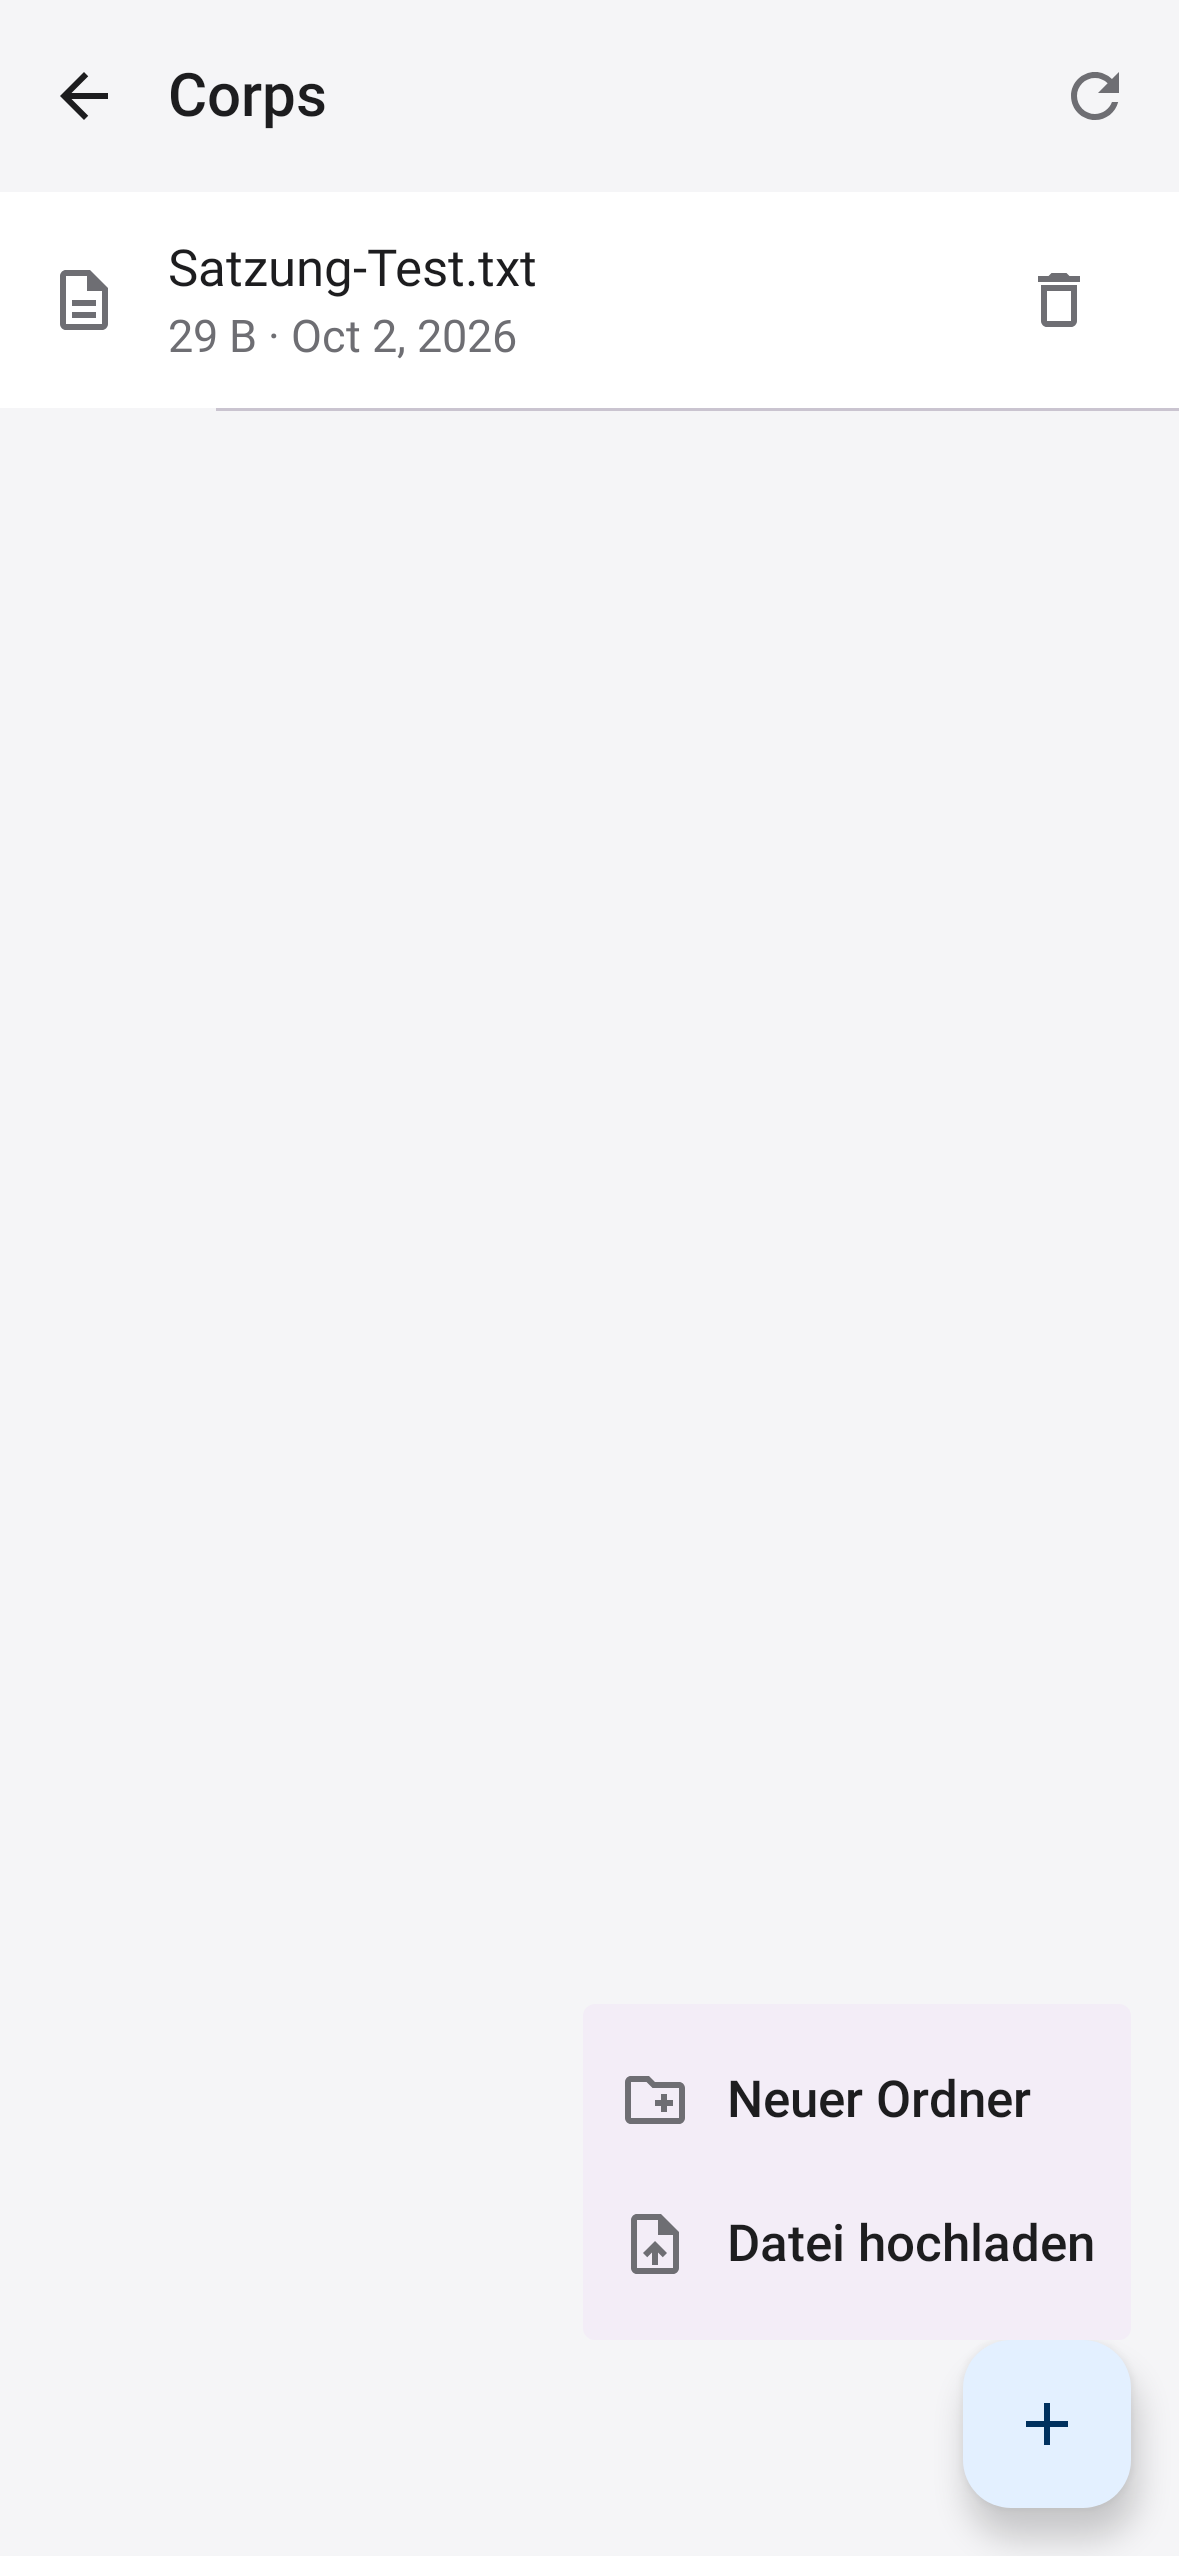
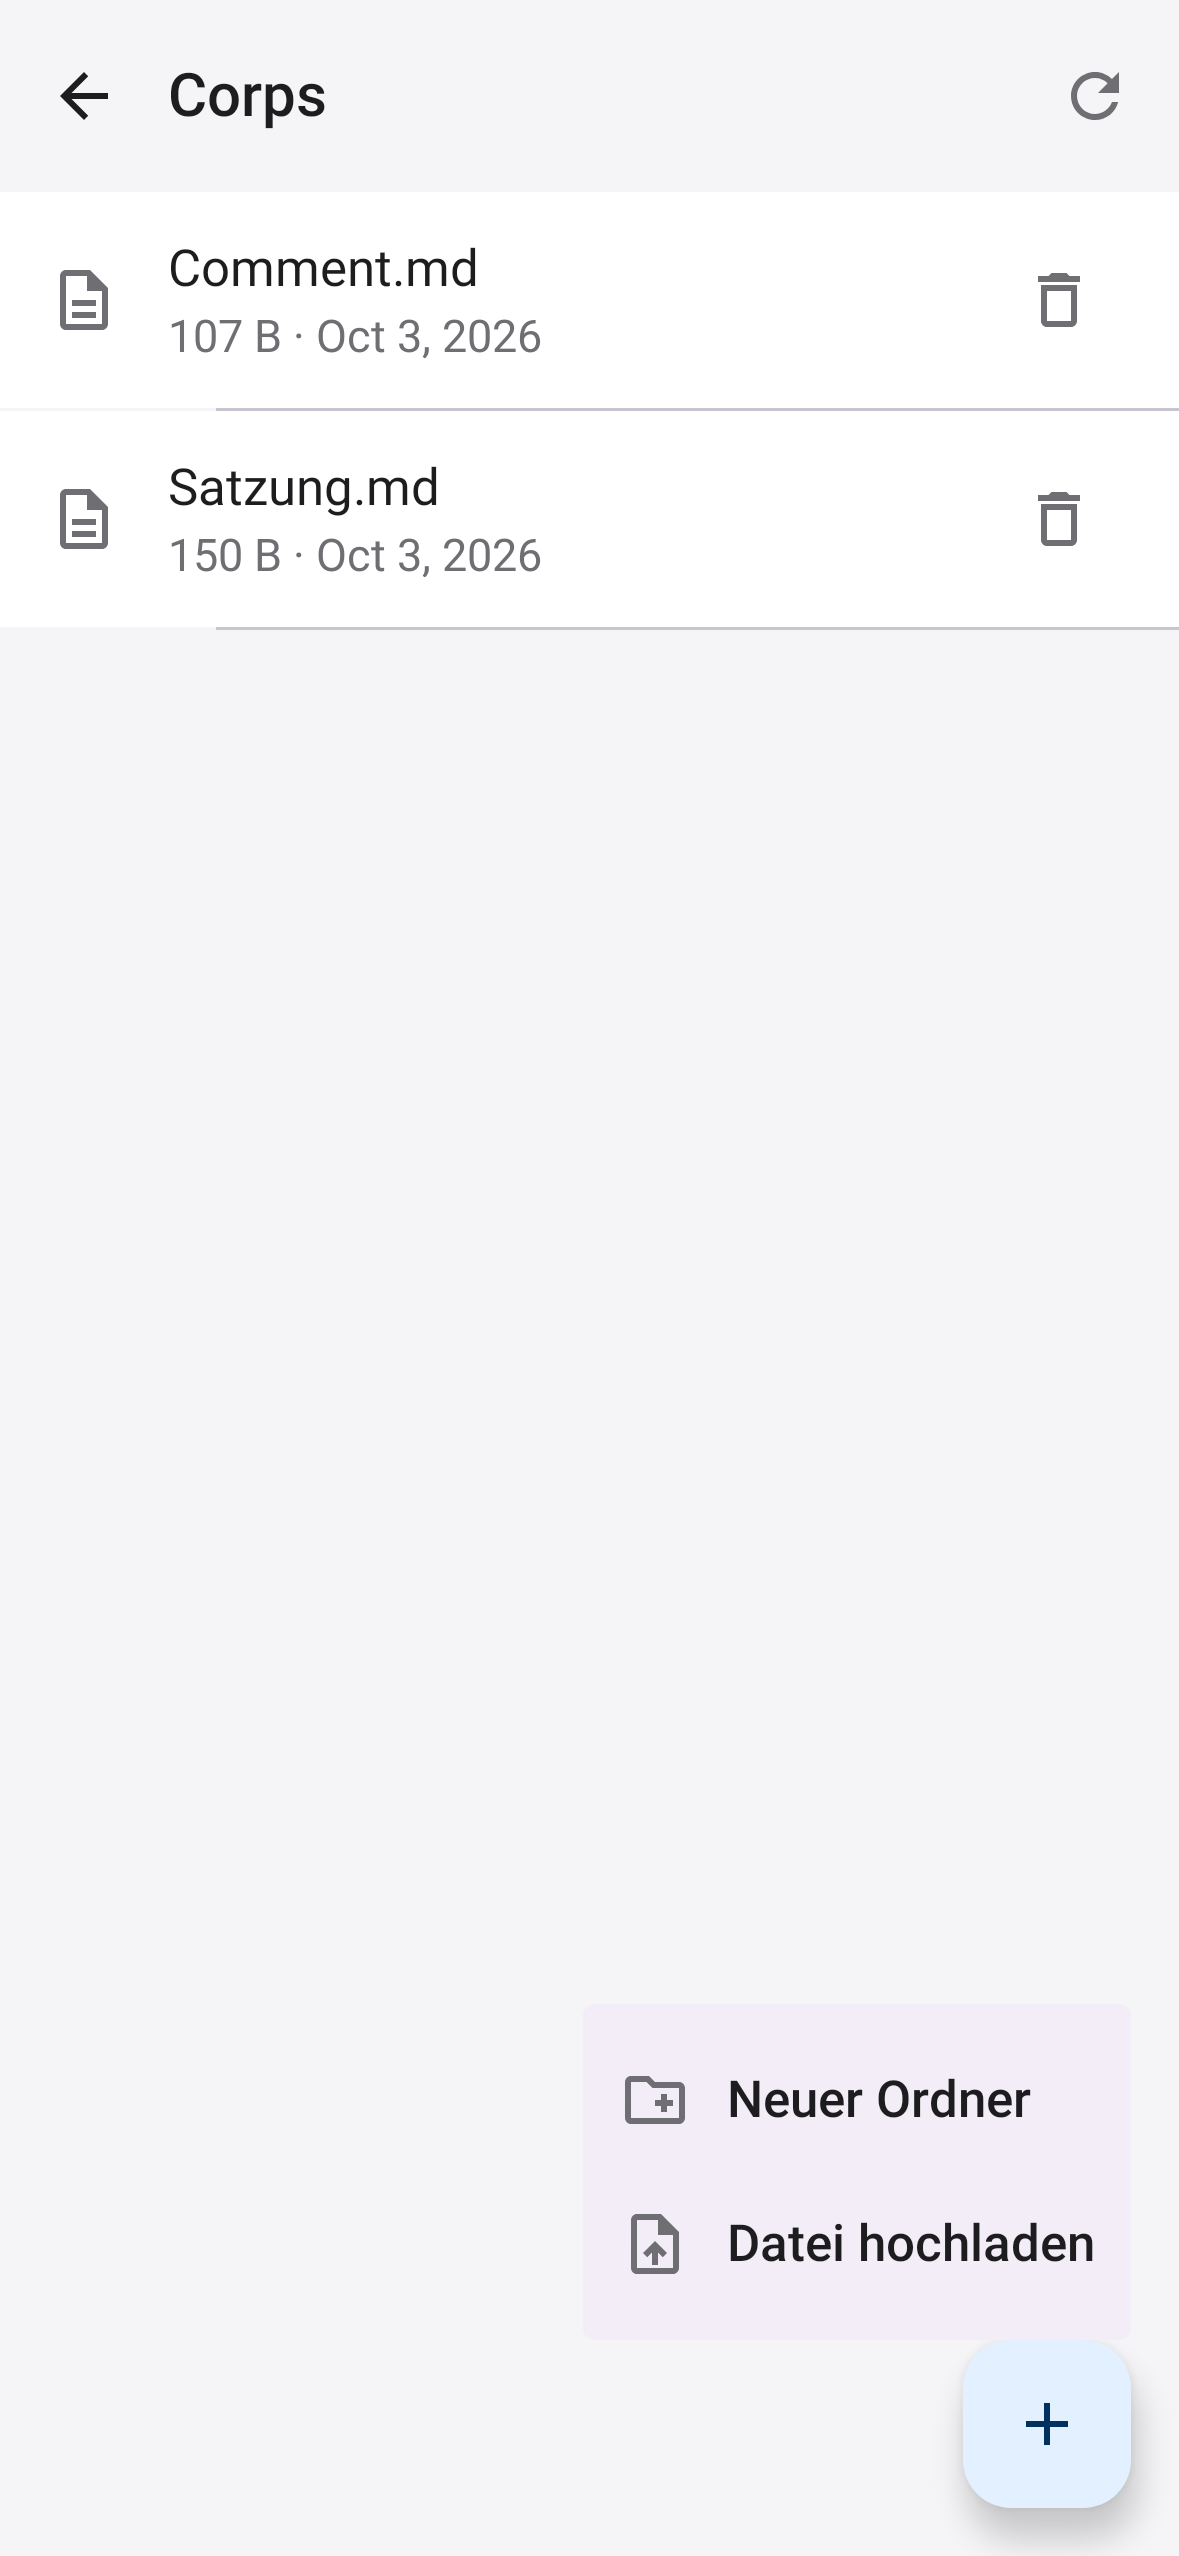
Zwei-Faktor-Pflicht für Chargen, AHV-Vorstand und IT-Admins; Beispieldateien; Tests mit TOTP
- Realm-Rolle zwei-faktor-pflicht über Gruppen, bedingter Anmeldeablauf browser-chattia (TOTP)
- SSO-Test richtet TOTP ein, berechnet Codes und prüft: Ämter gefragt, Aktive ohne Amt nicht
- dev-files.sh legt Beispielordner an; App-Tests nutzen Konto ohne Amt (bursch)
- Doku: Schlüsselrotation und Caches von Nextcloud/WordPress

Claude-Session: https://claude.ai/code/session_013pBdEe3DoC3F33hqVsbrFP

diff --git a/apps/android/src/test/java/com/example/nova/android/CentralLoginTest.kt b/apps/android/src/test/java/com/example/nova/android/CentralLoginTest.kt
@@ -126,7 +126,7 @@ class CentralLoginTest {
         shot("20-anmeldung-chattia-konto")
 
         // Custom Tab: Keycloak-Login, danach öffnet Android die App mit nova://auth?code=…
-        callback.value = browserLogin(nova.auth.centralLoginUrl(), "senior", "Chattia-Test-2026!")
+        callback.value = browserLogin(nova.auth.centralLoginUrl(), "bursch", "Chattia-Test-2026!")
 
         waitForText("Womit kann ich helfen?")
         compose.onNodeWithContentDescription("Menü").performClick()
@@ -136,7 +136,7 @@ class CentralLoginTest {
         waitForText("Corps")
         shot("21-dateien")
         compose.onNodeWithText("Corps").performClick()
-        waitForText("Satzung-Test.txt")
+        waitForText("Satzung.md")
         shot("22-dateien-ordner")
 
         compose.onNodeWithContentDescription("Neuer Ordner").performClick()

diff --git a/docs/plan/zentraler-login.md b/docs/plan/zentraler-login.md
@@ -36,11 +36,11 @@ Gruppen werden **nur in Keycloak** gepflegt. Nextcloud übernimmt sie bei jeder 
 | `aktivitas/fuechse` | Füxe | Gruppe `fuechse` | – | eingeschränkte Gruppenordner |
 | `inaktive` | Inaktive | Gruppe `inaktive` | – | |
 | `alte-herren` | AHV-Mitglieder | Gruppe `alte-herren` | – | |
-| `chargen/senior` … `fuchsmajor` | Chargierte | jeweilige Gruppe | – | 2FA (geplant), Amtsordner |
-| `ahv-vorstand` | Kasse, Schriftführung | Gruppe `ahv-vorstand` | – | 2FA (geplant), Zugriff Kasse/Archiv |
+| `chargen/senior` … `fuchsmajor` | Chargierte | jeweilige Gruppe | – | 2FA Pflicht, Amtsordner |
+| `ahv-vorstand` | Kasse, Schriftführung | Gruppe `ahv-vorstand` | – | 2FA Pflicht, Zugriff Kasse/Archiv |
 | `hausverein` | Hausverwaltung | Gruppe `hausverein` | – | |
 | `website-redaktion` | Pflege der Website | – | **Redakteur** | |
-| `it-admins` | Technik | Admin-Gruppe | **Administrator** | Hardware-Schlüssel (geplant) |
+| `it-admins` | Technik | Admin-Gruppe | **Administrator** | 2FA Pflicht, Hardware-Schlüssel empfohlen |
 | `gaeste` | Gäste, Partner | Gruppe `gaeste` | – | nur geteilte Ordner |
 
 Bei einem **Chargenwechsel** (jedes Semester) werden nur die Gruppen in Keycloak umgehängt. Die Amtsordner in Nextcloud („Senior“, „Fuchsmajor“ …) gehören der Gruppe, nicht der Person, und gehen damit automatisch mit.
@@ -49,7 +49,7 @@ Hinweis: Keycloak liefert die **direkten** Gruppen (`burschen`, nicht `aktivitas
 
 ## Anmeldung
 
-- **Passwort + Passkey/TOTP.** Passkeys (Face ID, Fingerabdruck, Windows Hello) sind bereits aktiv („Anmelden mit Passkey“). Für Chargen, AHV-Vorstand und IT-Admins wird ein zweiter Faktor Pflicht. Das ist noch einzurichten: bedingter Anmeldeablauf je Gruppe in Keycloak, bis dahin per *Required Action* am Konto.
+- **Passwort + Passkey/TOTP.** Passkeys (Face ID, Fingerabdruck, Windows Hello) sind bereits aktiv („Anmelden mit Passkey“). **Zweiter Faktor Pflicht für Chargen, AHV-Vorstand und IT-Admins:** Diese Gruppen erben die Rolle `zwei-faktor-pflicht`. Der Anmeldeablauf `browser-chattia` verlangt dann nach dem Passwort einen TOTP-Code (Authenticator-App). Bei der ersten Anmeldung richtet Keycloak ihn automatisch ein. Wer das Amt abgibt, verliert die Rolle mit der Gruppe. Getestet: Senior muss einrichten und wird danach jedes Mal gefragt, Fux und Bursch ohne Amt nicht.
 - **Brute-Force-Schutz:** nach 8 Fehlversuchen Wartezeit, steigend bis 15 Minuten.
 - **Sitzungen:** 2 h Leerlauf, max. 10 h im Browser; App über Offline-Token bis 30 Tage ohne Nutzung.
 - **Notfall-Login:** Nextcloud-Admin `nc-admin` bleibt lokal (`/login?direct=1`) mit langem Passwort im Tresor, falls Keycloak ausfällt.
@@ -102,11 +102,15 @@ docker compose cp keycloak/dev-users.sh keycloak:/tmp/ && docker compose exec ke
 docker compose --profile tools run --rm wpcli   # WordPress einrichten
 ```
 
-Testkonten: `senior`, `fux`, `altherr`, Passwort `Chattia-Test-2026!`. Dann https://cloud.chattia.internal:8443 (Browser-Warnung zur lokalen CA einmal bestätigen oder `caddy-local-root.crt` importieren).
+Testkonten: `senior` (Charge, IT, Redaktion: zweiter Faktor), `bursch` (Redaktion), `fux`, `altherr` (AHV-Vorstand: zweiter Faktor), Passwort `Chattia-Test-2026!`. Beispieldateien: `./dev-files.sh`. Dann https://cloud.chattia.internal:8443 (Browser-Warnung zur lokalen CA einmal bestätigen oder `caddy-local-root.crt` importieren).
 
 | Keycloak | Nextcloud nach SSO | WordPress: Redaktion | WordPress: Fux abgewiesen |
 |---|---|---|---|
 | ![](../screenshots/hosting/01-keycloak-login.png) | ![](../screenshots/hosting/02-nextcloud-nach-sso.png) | ![](../screenshots/hosting/04-wordpress-nach-sso.png) | ![](../screenshots/hosting/05-wordpress-fux-abgelehnt.png) |
+
+Zweiter Faktor für Ämter:
+
+![](../screenshots/hosting/06-zweiter-faktor-einrichten.png)
 
 Automatische Tests: `tests/sso-test.mjs` (Browser: Keycloak → Nextcloud → WordPress mit Rollen) und `tests/nova-files-test.mjs` (App-Ablauf: Login, Einmalcode, Dateien hoch/runter/löschen, Pfadausbruch, ohne Anmeldung). Beide liefen vollständig grün.
 
@@ -116,3 +120,4 @@ Automatische Tests: `tests/sso-test.mjs` (Browser: Keycloak → Nextcloud → Wo
 - **Eigene `clientScopes` im Realm-Import** ersetzen die Standard-Scopes (`profile`, `email` …). Der Gruppen-Mapper hängt deshalb direkt an den Clients.
 - **Nextcloud blockiert private Adressen** als Identity Provider. `allow_local_remote_servers` ist nur gesetzt, weil Keycloak im selben Docker-Netz läuft.
 - **WordPress-Plugin** leitet den Issuer falsch ab (ohne Port/Pfad). Er wird jetzt explizit gesetzt.
+- **Schlüsselrotation:** Nextcloud und WordPress speichern die Signaturschlüssel von Keycloak bis zu eine Stunde zwischen. Bei einer Rotation den alten Schlüssel deshalb mindestens einen Tag als *passiv* aktiv lassen (Keycloak: Realm-Einstellungen → Schlüssel). Notfalls Cache leeren: `occ config:app:delete user_oidc provider-1-jwksCacheTimestamp` und `wp transient delete --all`.

diff --git a/README.md b/README.md
@@ -110,4 +110,4 @@ node cms/scripts/validate-content.mjs                         # Texte prüfen
 4. **Twilio** für echte SMS/Anrufe (`PHONE_PROVIDER=twilio` + Zugangsdaten), **E-Mail-Anbieter** (SMTP von Brevo/Mailjet)
 5. **Google Cloud**: Projekte, Terraform, Variablen für `deploy.yml` (siehe [docs/plan/cicd-gcp.md](docs/plan/cicd-gcp.md))
 6. Workspaces mit Einladungen, Abos (In-App-Kauf)
-7. **Corps Chattia:** Umzug nach Runbook, Backup-Projekt per Terraform anlegen, 2FA-Pflicht für Chargen in Keycloak, Chattia-Assistent (KI über die Cloud-Dokumente)
+7. **Corps Chattia:** Umzug nach Runbook, Backup-Projekt per Terraform anlegen, Chattia-Assistent (KI über die Cloud-Dokumente)
